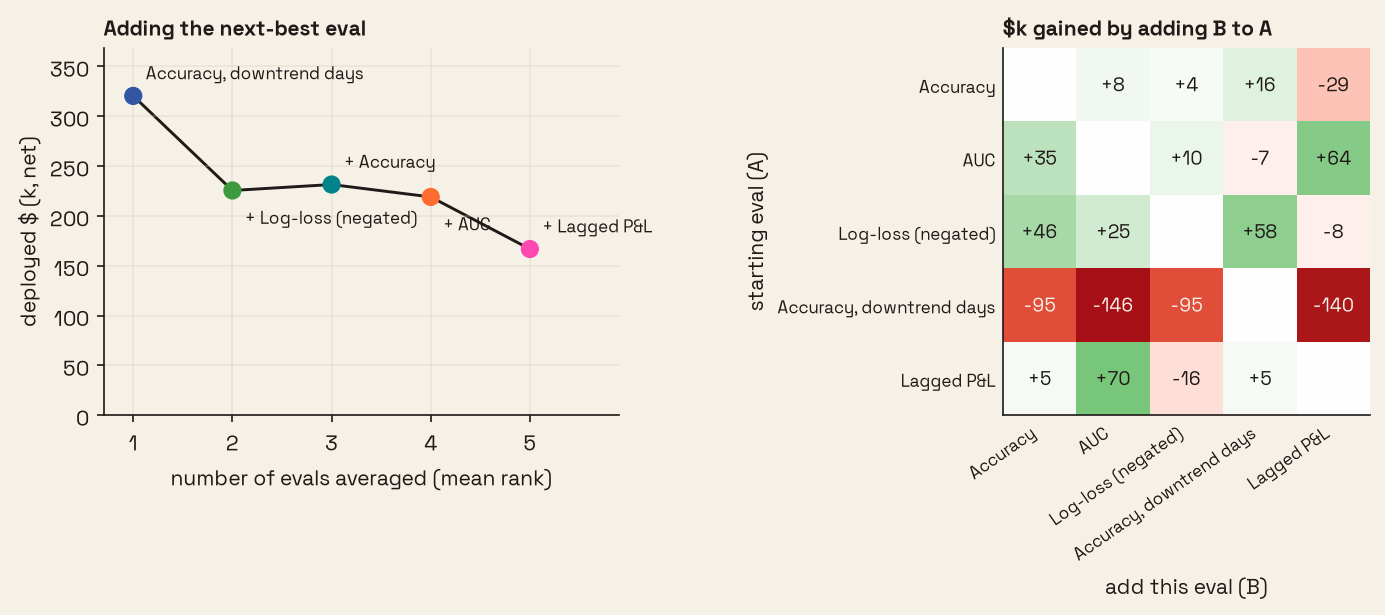
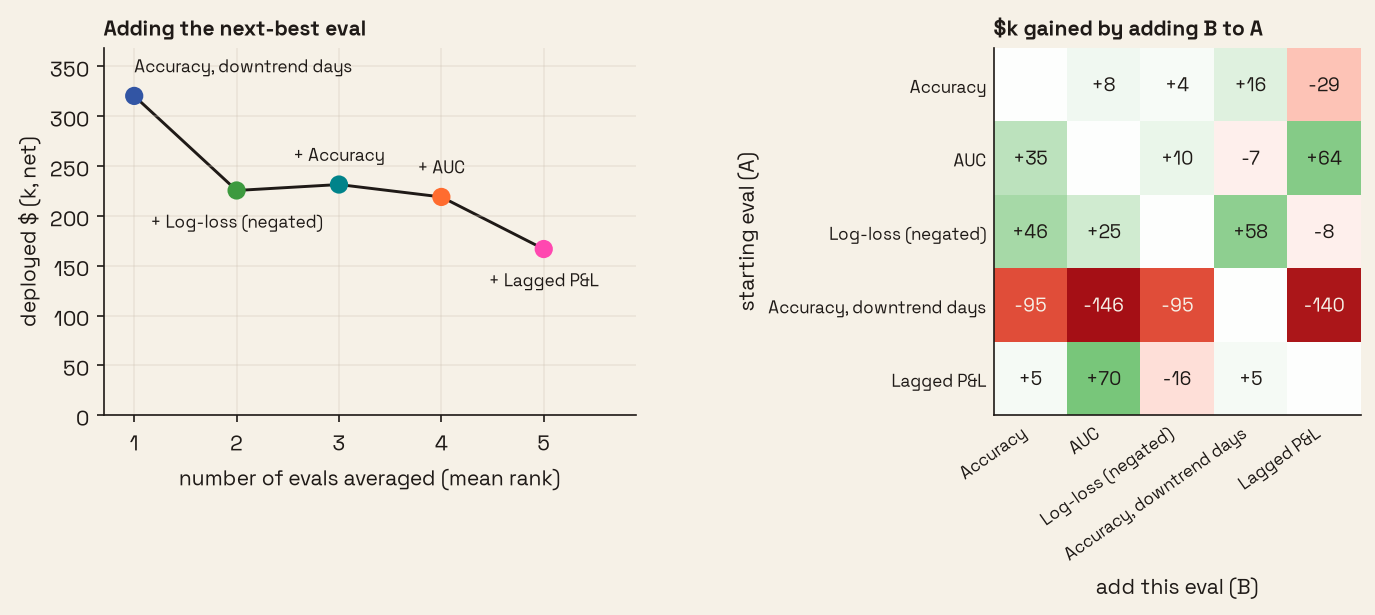
fig11b: place forward-selection labels away from the line

diff --git a/evalsq/plots.py b/evalsq/plots.py
@@ -378,9 +378,12 @@ def plot_h3_complementarity(forward: pd.DataFrame, pair: pd.DataFrame, path: Pat
     y = forward["final_usd"] / 1e3
     a.plot(forward["n"], y, color=INK, lw=1.4, zorder=1)
     a.scatter(forward["n"], y, s=60, c=[RULE_COLORS.get(r, "#A89E96") for r in forward["added"]], zorder=2)
-    for n, v, r in zip(forward["n"], y, forward["added"]):
+    for i, (n, v, r) in enumerate(zip(forward["n"], y, forward["added"])):
+        # label on the side away from the line: above if the point sits above its neighbours' mean
+        nb = y.iloc[max(i - 1, 0):i + 2].drop(y.index[i])
+        up = v >= nb.mean()
         a.annotate(("" if n == 1 else "+ ") + RULE_LABELS.get(r, r), (n, v), textcoords="offset points",
-                   xytext=(6, 8 if n % 2 else -16), fontsize=8)
+                   xytext=(0, 9 if up else -10), ha="left" if i == 0 else "center", va="bottom" if up else "top", fontsize=8)
     a.set_xticks(forward["n"])
     a.set_xlabel("number of evals averaged (mean rank)")
     a.set_ylabel("deployed $ (k, net)")
